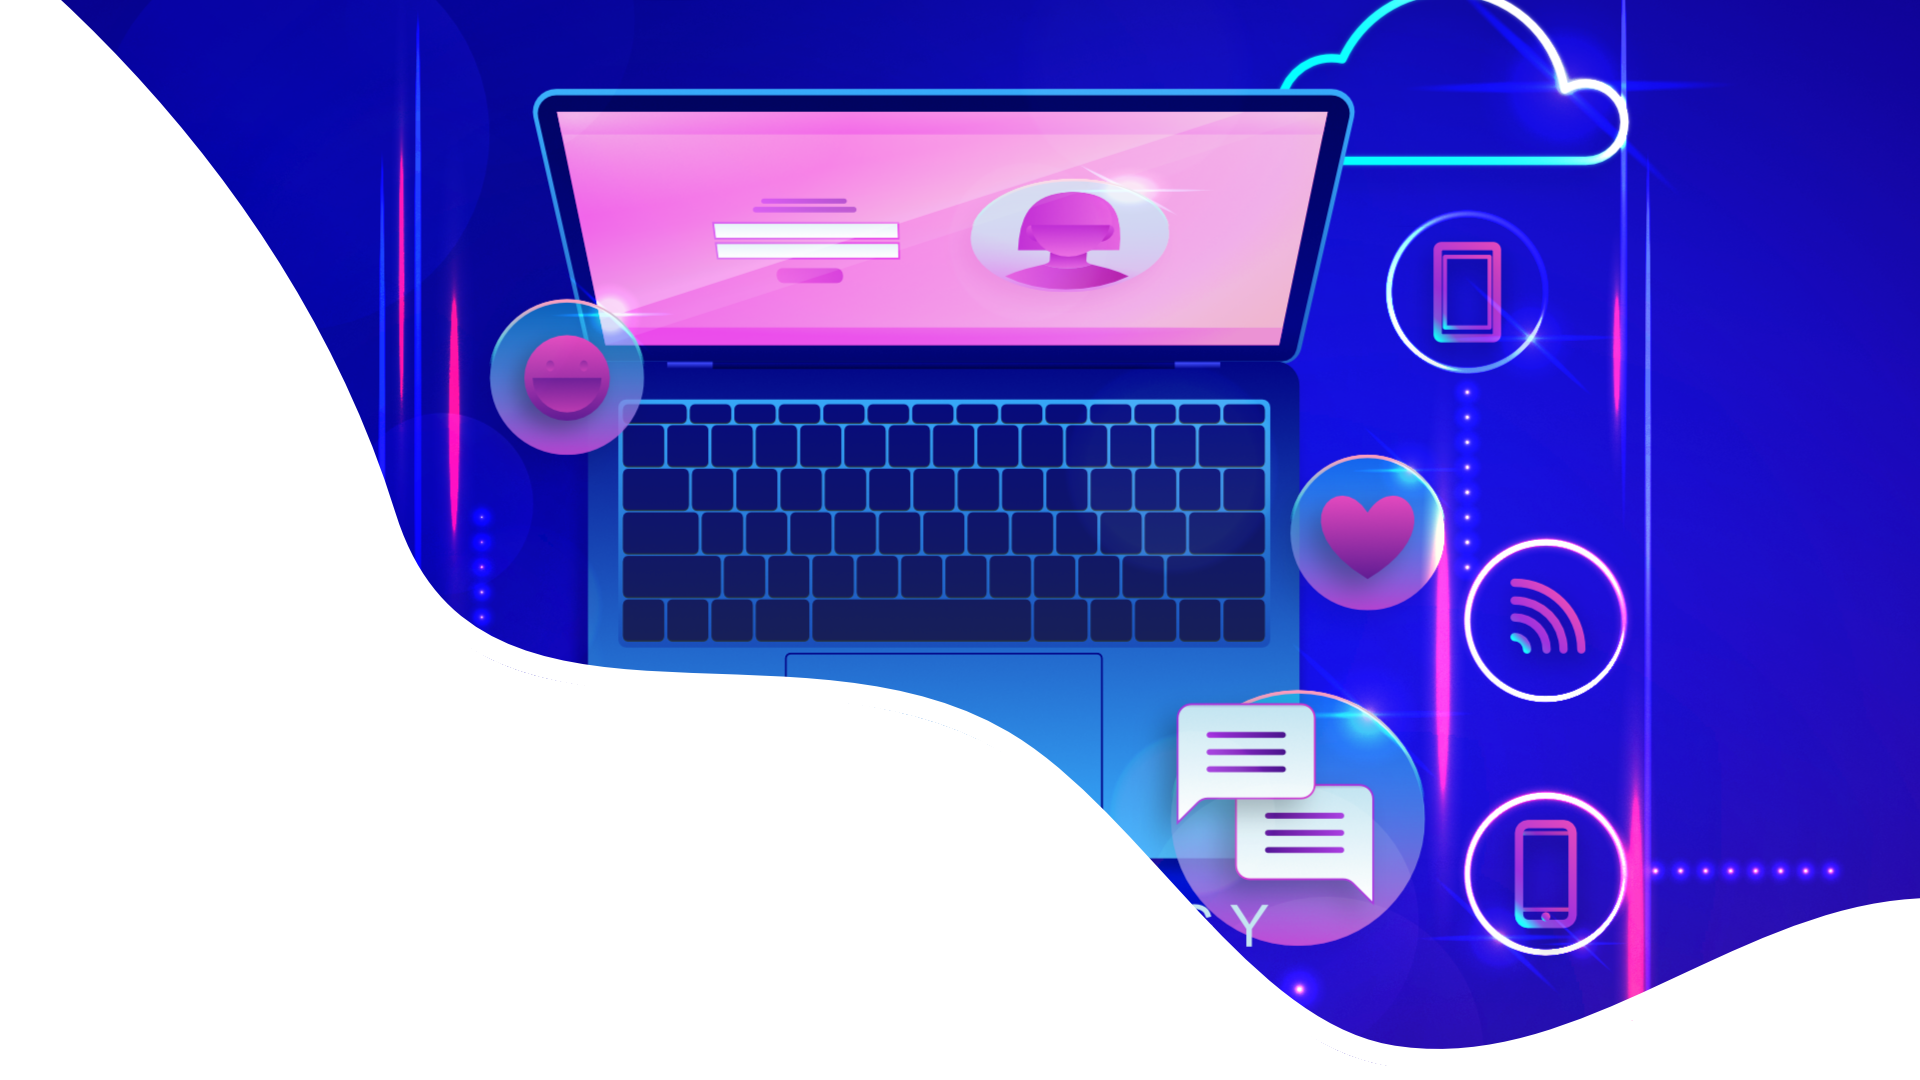
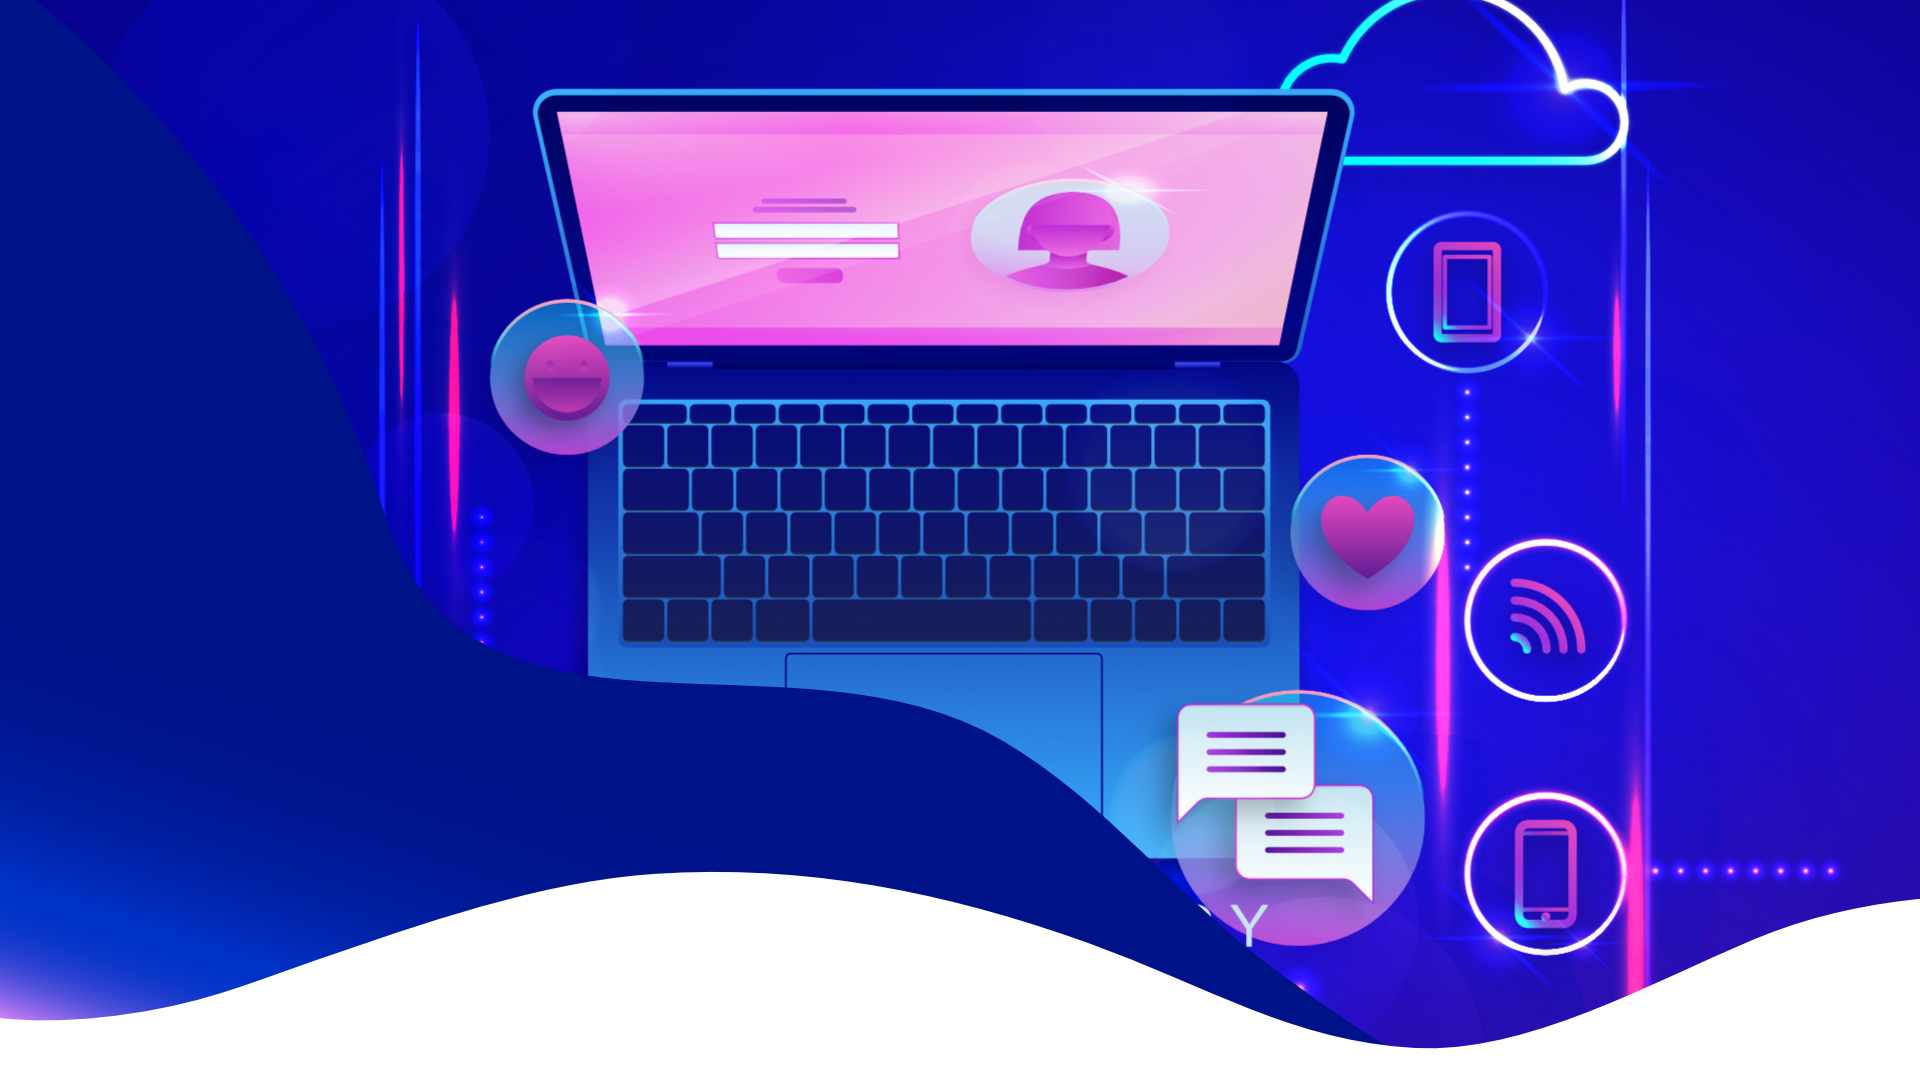
visuel retouché

Changed region(s): [[0.0, 0.0, 0.7188, 0.9778], [0.8125, 0.9167, 0.8438, 0.9472], [0.7812, 0.9472, 0.8125, 0.9778]]

diff --git a/assets/css/style.css b/assets/css/style.css
@@ -23,18 +23,33 @@ hr{
 	margin-top: 10px;
 	width:150px;
 }
+
+strong{
+	font-weight: normal;
+	color: #111C93;
+}
+
 /*grande image en tete*/
 .fond{
 	width: 100%;
 	height: auto;
+	margin-bottom: -40px;
 }
 
 /*portefolio texte bienvenue entrée du site*/
 
 .portefolio{ /*section portefolio et bienvenue*/
-	position: sticky;
+	position: absolute;
+	display: block;
 	margin-top: -25%;
+	color: white;
 }
+
+.porte{
+	font-weight: normal;
+	color: #CFE9FF;
+}
+
 
 /*titres*/
 h1{
@@ -42,12 +57,15 @@ h1{
 	font-size: 2em;
 	font-family: "tabarra";
 	margin-top: 10px;
-	color: #69677A;
+	color: #111C93;
 	font-weight: bold;
+	letter-spacing: 5px;
 }
+
 /*PORTEFOLIO*/
 h1.titre{
 	text-align: left;
+	color: white;
 }
 
 /*ancre qui ne cache pas le titre*/
@@ -92,25 +110,33 @@ nav a:hover{
 }
 
 /*Présentation*/
-.presentation{
+.sectionPresentation{ /*row entière*/
+	margin-top: -40px;
+}
+
+.clarisse{ /*juste mon prénom*/
+	font-weight: normal;
+}
+.prenom{ /*mon identité*/
+	font-size: 1.5em;
+	color: #111C93;
+	font-weight: bold;
+}
+
+.presentation{ /*présentation + identité*/
 	text-align: justify;
 	padding: 20px;
 }
 
-.prenom{ /*mon identité*/
-	font-size: 1.5em;
-	color: grey;
-	font-weight: bold;
-}
-
 .lettrine{
 	float:left;
-	font-size:3em; /*taille premiere lettre = lettrine*/
+	font-size:3em; /*taille premiere lettre = lettrine de la présentation*/
 	margin-right:3%;
 	margin-top:-5%;
 }
 
-p.plettrine{
+
+p.plettrine{ /*paragraphe de la présentation*/
 	margin-bottom: 20px;
 }
 
@@ -119,7 +145,7 @@ p.plettrine{
 	background-color: none;
 	text-align: center;
 	align-self: center;
-	border: 3px dotted #e8a1ea;
+	border: 1px solid #eee;
 	padding:20px;
 	margin-bottom: 30px;
 }
@@ -161,20 +187,20 @@ button{
 	padding-right: 20px;
 	margin: 5px;
 	margin-bottom: 15px;
-	color: grey;
+	color: #fff;
 	font-weight: bold;
-	background: #E5E5E5;
+	background: #C15CD5;
 	border-radius: 5px;
 }
 
 button:hover{
-	background: #cbcbcd;
-	color: #64626C;
+	background: #09087C;
+	color: #fff;
 }
 
 button:active{
-	background: #cbcbcd;
-	color: #64626C;
+	background: #09087C;
+	color: #fff;
 }
 
 button:focus{
@@ -206,6 +232,7 @@ div.row[id^="p"]{
 	text-align: center;
 	font-weight: bold;
 	margin-bottom: 30px;
+	letter-spacing: 1px;
 }
 
 /*Fenetres modales*/
@@ -232,13 +259,16 @@ h2{
 
 footer{
 	text-align: center;
-	padding-bottom: 100px;
-	padding-top: 50px;
+	padding-bottom: 80px;
+	padding-top: 30px;
+	background-image: url(../img/fond/footer.png);
+	background-size: cover;
+	background-position: center;
 }
 
 footer hr{
-	margin-top: 30px;
-	margin-bottom: 100px;
+	margin-top: 10px;
+	margin-bottom: 80px;
 }
 
 /*responsive*/
@@ -270,9 +300,52 @@ footer hr{
 	}
 }
 
+@media (max-width: 1030px){
+	.portefolio{ /*section portefolio et bienvenue*/
+		margin-top: -35%;
+	}
+}
+
+@media (max-width: 767px){
+	.portefolio{ /*section portefolio et bienvenue*/
+		position: inherit;
+		margin-top: 0;
+		color: #373544;
+		text-align: center;
+	}
+
+	h1.titre{
+		color: #373544;
+		text-align: center;
+		margin-bottom: 40px;
+		margin-top: 40px;
+	}
+
+	.porte{
+		color:#111C93;
+		font-weight: bold;
+	}
+
+	.textBienvenue{ /*section portefolio et bienvenue*/
+		color: #111C93;
+		display: block;
+		font-weight: bold;
+	}
+
+}
+
 @media(max-width: 500px){
 	.row{
 		margin: 0 !important;
+	}
+
+	h1.titre{
+		margin-bottom: 40px;
+		margin-top: 60px;
+	}
+
+	.portefolio{ /*section portefolio et bienvenue*/
+		margin-bottom: 30px;
 	}
 }
 

diff --git a/index.html b/index.html
@@ -39,7 +39,7 @@
 		<div class="row">
 			<div class="col-12 col-md-6 portefolio">
 				<h1 class="titre"><span class="porte">Porte</span>folio</h1>
-				<p>Bienvenue sur mon portefolio !<br/>
+				<p><span class="textBienvenue">Bienvenue sur mon portefolio !</span><br/>
 				Vous y retrouverez mon profil et mes projets de formation en développement web</p>
 			</div>
 		</div>
@@ -51,19 +51,19 @@
 				<h1 id="ancre1">Qui suis-je ?</h1><hr/>
 			</div>
 		</div>
-		<div class="row">
+		<div class="row sectionPresentation">
 			<div class="col-12 col-lg-2"></div>
 			<div class="col-12 col-lg-4 presentation">
 				<!--présentation-->
-				<p class="prenom">Clarisse HURION</p>
-				<p class="plettrine"><span class="lettrine">J</span>e suis Clarisse, enchantée ! J'ai 22 ans et je suis actuellement en formation à Simplon pour pouvoir devenir développeuse web. Attirée depuis plusieurs années par le monde du numérique, je passe maintenant des heures entières à imaginer, maquetter et créer des sites web pour mener à bien tous les projets.</p>
+				<p class="prenom"><span class="clarisse">Clarisse</span> Hurion</p>
+				<p class="plettrine"><span class="lettrine">J</span>e suis <strong>Clarisse</strong>, enchantée ! J'ai 22 ans et je suis actuellement en formation à Simplon pour pouvoir devenir <strong>développeuse web</strong>. Attirée depuis plusieurs années par le monde du <strong>numérique</strong>, je passe maintenant des heures entières à <strong>imaginer</strong>, <strong>maquetter</strong> et <strong>créer des sites web</strong> pour mener à bien tous les <strong>projets</strong>.</p>
 			</div>
 			<div class="col-12 col-lg-1"></div>
 			<!--réseaux sociaux-->
 			<div class="col-12 col-lg-3 reseaux">
 				<p>Me contacter sur les réseaux sociaux</p>
-				<p><a href=""><img src="assets/img/rs/instagram.png" alt="instagram" class="rs"/></a>
-				<a href=""><img src="assets/img/rs/twitter.png" alt="twitter" class="rs"/></a></p>
+				<p><a href="https://www.instagram.com/lyrnaa" target="_blank"><img src="assets/img/rs/instagram.png" alt="instagram" class="rs"/></a>
+				<a href="https://twitter.com/lyrna2" target="_blank"><img src="assets/img/rs/twitter.png" alt="twitter" class="rs"/></a></p>
 			</div>
 			<div class="col-12 col-lg-2"></div>
 		</div>
@@ -446,11 +446,10 @@
 	</div>
 </div>
 </main>
-
 <footer id="ancre4">
 	 <hr/>
-  	<p>Vous pouvez <a href="assets/img/competence/CV.pdf" target="_blank">télécharger mon cv en pdf</a></p>
-  	<p>M'envoyer un <a href="mailto:clarisse.hurion@gmail.com" role="button">mail</a></p>
+	  	<p>Vous pouvez <a href="assets/img/competence/CV.pdf" target="_blank">télécharger mon cv en pdf</a></p>
+	  	<p>M'envoyer un <a href="mailto:clarisse.hurion@gmail.com" role="button">mail</a> à l'adresse clarisse.hurion@gmail.com</p>
  </footer>
 
 	
